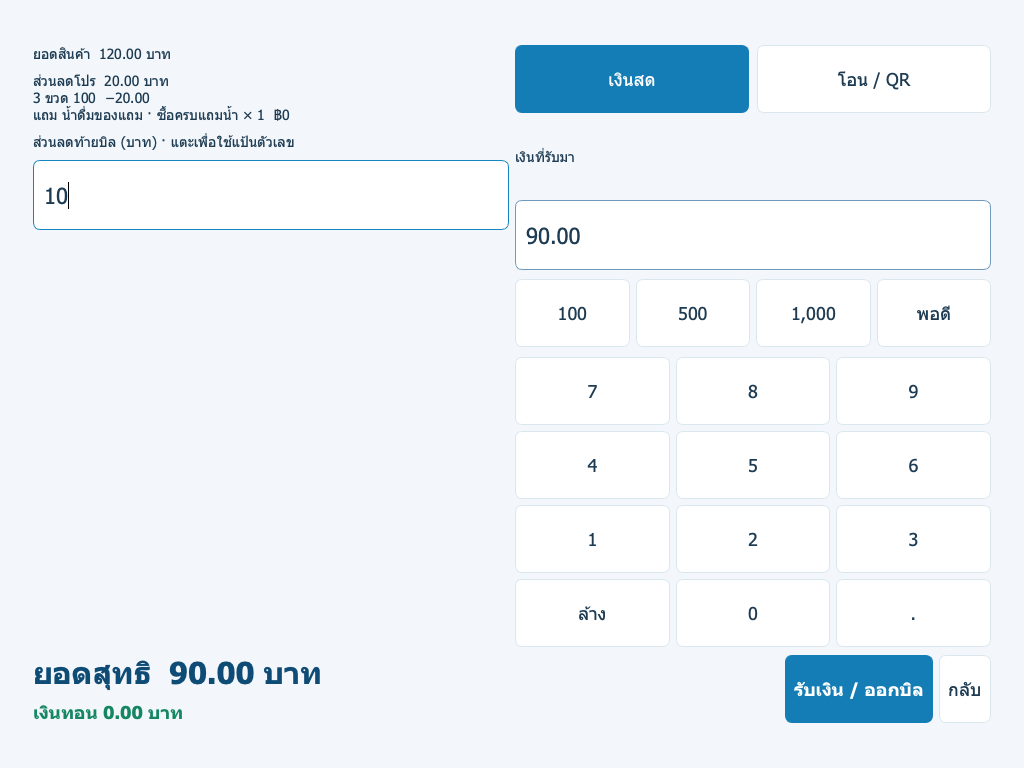
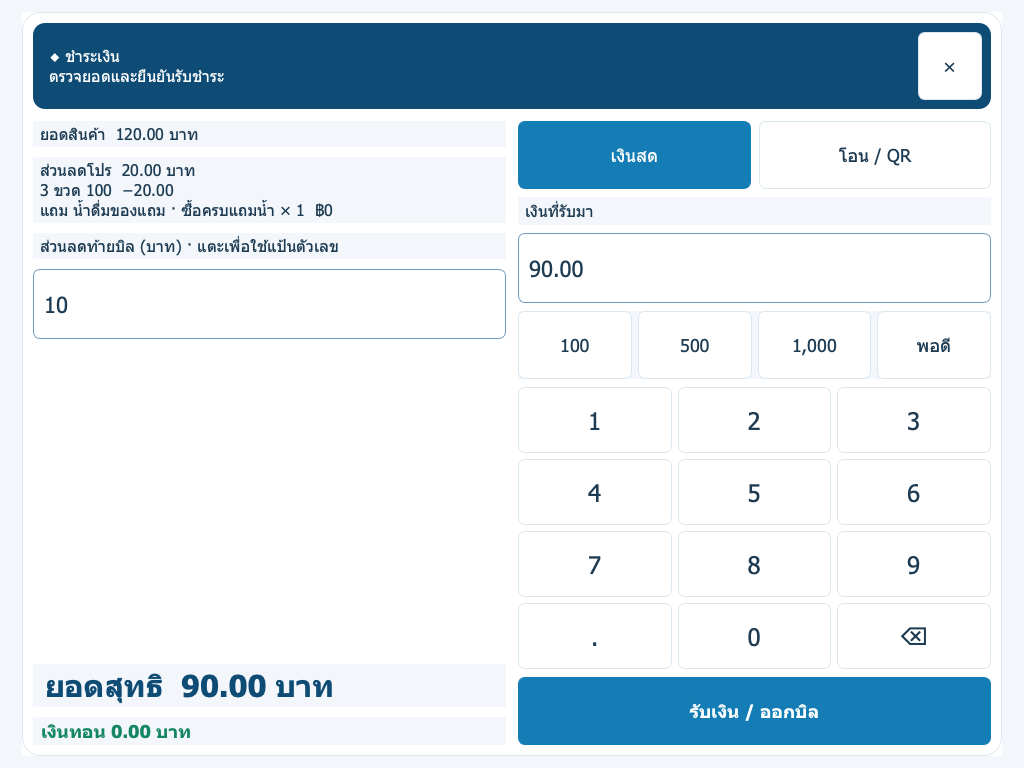
Document popup parity handoff and 1024px touch previews

diff --git a/docs/ai/task.md b/docs/ai/task.md
@@ -1,3 +1,38 @@
+## Handoff - 2026-11-05 (Codex: Python POS touch popups)
+- Branch: `claude/pos-python-settings-popup`; base `514b5d0`; commits `aedfd81` (shared touch controls / popup flows), `6c940f0` (guards, central held bills, tests / capture tool); commit ภาพและ handoff ดู git log หัวข้อนี้
+- Git: worktree เดิมเขียน metadata นอก sandbox ไม่ได้ (`FETCH_HEAD: Operation not permitted`); clone `--no-hardlinks` ไป `/private/tmp/pos-popups-work` โดยคง branch ชื่อเดิมและ origin GitHub เดิม แล้ว `git pull origin main` สำเร็จ (Already up to date). แก้ source ใน workspace นี้และคัดลอกเฉพาะไฟล์งานไป commit/push จากสำเนา. HEAD/index ของ workspace เดิมยังอยู่ `514b5d0`; อย่า commit ไฟล์งานนี้ซ้ำจาก metadata เดิม ให้รับงานต่อจาก remote branch หรือสำเนาข้างต้น.
+- ทำอะไร: ทำตาม `docs/ai/codex-pos-python-popups.md`; เพิ่ม `TouchDialog`, `NumPad`, `PinPad`, `ValueDialog`, `TextDialog`, `ChoiceDialog` ใช้ร่วมกัน; การ์ดขอบมน/header แบรนด์/บรรทัดรอง/×/backdrop มืด, แป้นจริง ≥64×64 ตัวเลข 24px, ปุ่มยืนยัน ≥56px. เปิดกะและรับเงินใช้ปุ่มยืนยันเต็มคอลัมน์; สีอ้าง PALETTE. Payment สรุป/โปร ≥16px และระยะห่างเพิ่ม, ขนาด 980×744.
+- PIN: ตัวเลข ASCII 4–20 หลัก, dots/ล้าง/ลบ, พิมพ์คีย์บอร์ดได้, ปุ่มยืนยันใช้ได้เมื่อครบ 4 หลัก; duplicate PIN เลือกชื่อโดย server ID. เปลี่ยน PIN เป็นสองขั้นพร้อมยืนยันตรงกันและเรียก API เดิมเมื่อ ERP บังคับเปลี่ยน; ไม่บันทึก PIN ลงคิว/ฐานข้อมูลจาก UI.
+- ปิดกะ: ดึง active shift จาก ERP ตรวจ server shift ID และใช้ `expected_cash` ล่าสุดเป็นค่าเริ่ม; หากดึงไม่ได้ใช้สรุปในเครื่องพร้อมแจ้งสถานะ. แสดงนับจริงและเกิน/ขาดตามสี. นำส่งเงินเป็นขั้นจำนวนเงินด้วย numpad → เหตุผล/เลขอ้างอิง → บันทึก, ใช้ local-first UUID/outbox เดิมและส่งเลขอ้างอิงถึง API; กลับมาหน้าปิดกะแล้วโหลด expected ใหม่. ปิดไม่ได้เมื่อมีบิล pending/failed ทั้งที่ปุ่ม/accept และ service (ตรวจซ้ำก่อนเปลี่ยนสถานะกะ).
+- บิลพัก: ออนไลน์และมีกะที่ ERP ยืนยันแล้วใช้ `/api/pos/held-bills` และ `/resume`; ส่ง server product/cashier/shift IDs, snapshot เก็บส่วนลดและแปลง product ID กลับเป็น local ก่อนเรียกคืน (ตรวจสินค้าครบก่อน consume บิล). บิลจาก Vue ใช้ cart เดิมได้. ออฟไลน์ยังพัก/เรียกในเครื่องได้และรองรับรายการ JSON แบบเก่า; เลือกบิลจากรายการแทน pop เงียบ ๆ. API ล้มเหลวไม่ล้างตะกร้า.
+- ประวัติ: เลือกบิลในเครื่อง → รายละเอียด → ยกเลิก/รับคืน. ต้องออนไลน์ มีกะ ERP และบิลมี server receipt; เลือกหัวหน้า/PIN ผ่าน API เดิม. ยกเลิกเฉพาะบิลวันนี้ในกะปัจจุบันที่ยังไม่ void. รับคืนกรอกจำนวนทีละรายการด้วย numpad ไม่เกินขาย; ส่ง server product IDs และไม่ทำเครื่องหมายบิลเป็น void. PIN ไม่เข้าคิวและถูกลบออกจาก payload หลัง request; ERP เป็นผู้ตรวจสิทธิ์และอนุมัติคืนเงินขั้นสุดท้าย.
+- Z Report: หลังปิดกะแสดงรายงานและพิมพ์อัตโนมัติเมื่อเลือก Windows printer แล้ว; เปิดกะมีปุ่มพิมพ์รายงานกะล่าสุดซ้ำ. จำ response ปิดกะจาก ERP เพื่อแสดง expected/count เมื่อ shift ID ตรง; fallback ในเครื่องแสดงป้ายชัดเจน. ปิดโปรแกรมแสดงจำนวนตะกร้า/คิว/กะ พร้อมกลับไปขาย/ล็อกหน้าจอ/ปิด; draft และคิวคงอยู่ตาม persistence เดิม.
+- เงินทอนส่งข้ามกะ: **ไม่พบการยกเงินทอนอัตโนมัติใน Vue/ERP**: Vue `openShift()` ส่ง `openingCash` ที่กรอก; `PosController::openShift()` รับ `opening_cash` และตั้ง expected เท่าค่านี้ ไม่ดึงยอดกะก่อน จึงคงการกรอกใหม่ใน Python.
+
+| Vue modal | Python dialog / flow | สถานะ |
+| --- | --- | --- |
+| cashier | ValueDialog + PinPad → pin_login | dots/แป้น/คีย์บอร์ด/ยืนยัน ≥4 หลัก |
+| selectCashier | SellerSelectionDialog / ChoiceDialog | โหมดเลือกชื่อ + PIN ซ้ำผูก server ID |
+| changePin | ValueDialog + PinPad สองขั้น | ค่าใหม่/ยืนยันตรงกัน/API เดิม |
+| shift | OpeningShiftDialog + NumPad | เงินทอน/เปิดกะ/พิมพ์ Z ซ้ำ |
+| closeShift | CloseShiftDialog + ValueDialog/TextDialog นำส่ง | ERP expected/นับจริง/ส่วนต่าง/นำส่ง/เลขอ้างอิง/บล็อกบิลค้าง |
+| closeApp | TouchDialog ใน closeEvent | แสดง draft/คิว/กะ, กลับไปขาย/ล็อก/ปิด |
+| void | TextDialog → ChoiceDialog → ValueDialog(PinPad) | เหตุผล/หัวหน้า/PIN/receipt void API |
+| return | TextDialog → ChoiceDialog → ValueDialog(จำนวน/PIN) | จำนวนคืน/หัวหน้า/PIN/receipt return API; ต้องอนุมัติ ERP ก่อนคืนเงิน |
+| weight | ValueDialog + NumPad | ทศนิยม/ตรวจน้ำหนักเดิม; ป้ายชั่งยังล็อกจำนวน |
+| holdBill | TextDialog | ตั้งชื่อ/ส่วนกลางเมื่อออนไลน์; local fallback |
+| heldBills | ChoiceDialog | เลือกบิลส่วนกลางหรือในเครื่อง; รักษาส่วนลด |
+| history | ChoiceDialog → TouchDialog รายละเอียด | ประวัติในเครื่อง/เปิดใบเสร็จ/ยกเลิก/รับคืน |
+| payment | PaymentDialog + NumPad + ValueDialog เลขท้าย | เงินสด/QR เดิม, สรุปอ่านง่าย/แป้นร่วม/ยืนยันเงินเข้ายังบังคับ |
+| Z report | TouchDialog ใน show_z_report | สรุป/พิมพ์เมื่อปิด/เรียกพิมพ์ซ้ำ |
+
+- ทดสอบ: `QT_QPA_PLATFORM=offscreen PYTHONPATH=apps/pos-python /private/tmp/pos-parity-env/bin/python -m pytest apps/pos-python/tests -q` ผ่าน **286 tests / 6.02s** (เดิม 278 + ใหม่ 8). ครอบคลุม PIN ใส่/ลบ/ล้าง/คีย์บอร์ดผิดชนิด, decimal/selection, ERP expected ID, เกิน/ขาด, pending/failed และตรวจซ้ำที่ service, cash drop API/เลขอ้างอิง/UUID, return server IDs/ไม่เก็บ PIN, central hold/restore/discount, geometry/ขนาดปุ่ม. เทสต์ UI cleanup Qt widgets ด้วย deferred delete ก่อนปิด DB เพื่อไม่ให้หน้าต่างจากเคสก่อนค้างใน event loop.
+- ภาพ: `QT_QPA_PLATFORM=offscreen PYTHONPATH=apps/pos-python /private/tmp/pos-parity-env/bin/python apps/pos-python/tools/capture_parity.py` ผ่าน; **17 ภาพ** ใน `docs/ai/pos-python-shots/popups/`, ทุกภาพ 1024×768 (รวม existing shift และสองขั้นนำส่งเงิน). ตรวจภาพจริง opening/payment/closeShift/Z และ contact sheet ทุกภาพแล้ว; bounds ของ dialog และปุ่มตรวจด้วย Qt. ภาพ PIN/void/return/changePin แสดงขั้นกรอก PIN ของ flow; ไม่ได้กรอก credentials จริง. ภาพใช้ SQLite ชั่วคราว ไม่ต่อ production.
+- ตรวจเพิ่ม: `git diff --check` ผ่าน. `php artisan test` เริ่มไม่ได้เพราะไม่มี `vendor/autoload.php`; ไม่แก้ PHP หรือ `apps/pos-desktop/` จึงไม่ได้รัน vue-tsc. ไม่เรียก CI/build/install รอบนี้.
+- ยังไม่ทดสอบ/ความเสี่ยง: ต้อง UAT Windows ร้านจริง 1024×768, ทัชสกรีน/คีย์บอร์ด/เครื่องชั่ง/สแกนเนอร์/เครื่องพิมพ์, ERP acceptance โดยสิทธิ์จริงของคนขาย/หัวหน้า, ข้ามเครื่องเรียกบิลพักและกรณีเครือข่ายขาดหลัง API รับสำเร็จ, ปิดกะ/คืนบางส่วนหลายครั้ง/ปิดโปรแกรมแล้วเปิดใหม่. Fake API และ offscreen ไม่แทน hardware/ERP UAT. หน้าชำระเงินยังใช้ช่องทางเงินสด/QR ตาม Python เดิม; ไม่ได้เพิ่มระบบ split/card/cheque ในรอบ popup นี้.
+- Deploy: **ยังไม่ deploy**; ไม่สร้าง PIN/password/device token ให้ใคร และไม่สร้างธุรกรรม production.
+- งานถัดไป: รับ source จาก remote branch แล้วให้เจ้าของสั่ง Windows UAT build/install เพื่อตรวจรายการข้างต้นก่อนปล่อยใช้งาน.
+
 ## Handoff - 2026-11-05 (Codex: Python POS promotion/payment parity)
 - Branch: `claude/pos-python-settings-popup`; base `8721e55`; commits `1e22fae` (pricing/catalog/migration), `a31a6b9` (touch payment/pairing/persistence/tests); commit ภาพ/handoff ดู git log หัวข้อนี้
 - Git: sandbox ไม่อนุญาตเขียน metadata ของ worktree เดิม จึง clone แบบ `--no-hardlinks` ไป `/private/tmp/pos-parity-copy` บน branch ชื่อเดิม, ตั้ง origin เป็น GitHub เดิม และ `git pull origin main` สำเร็จ (Already up to date). แก้ไฟล์ใน workspace เดิมแล้วใช้ Git metadata ของสำเนาสำหรับ commit/push; HEAD/index ของ worktree เดิมจึงยังอยู่ base เดิม (อย่า commit ไฟล์ซ้ำจาก worktree นี้). ก่อนรับงานต่อให้ใช้สำเนานี้หรือ worktree ใหม่จาก remote branch.
